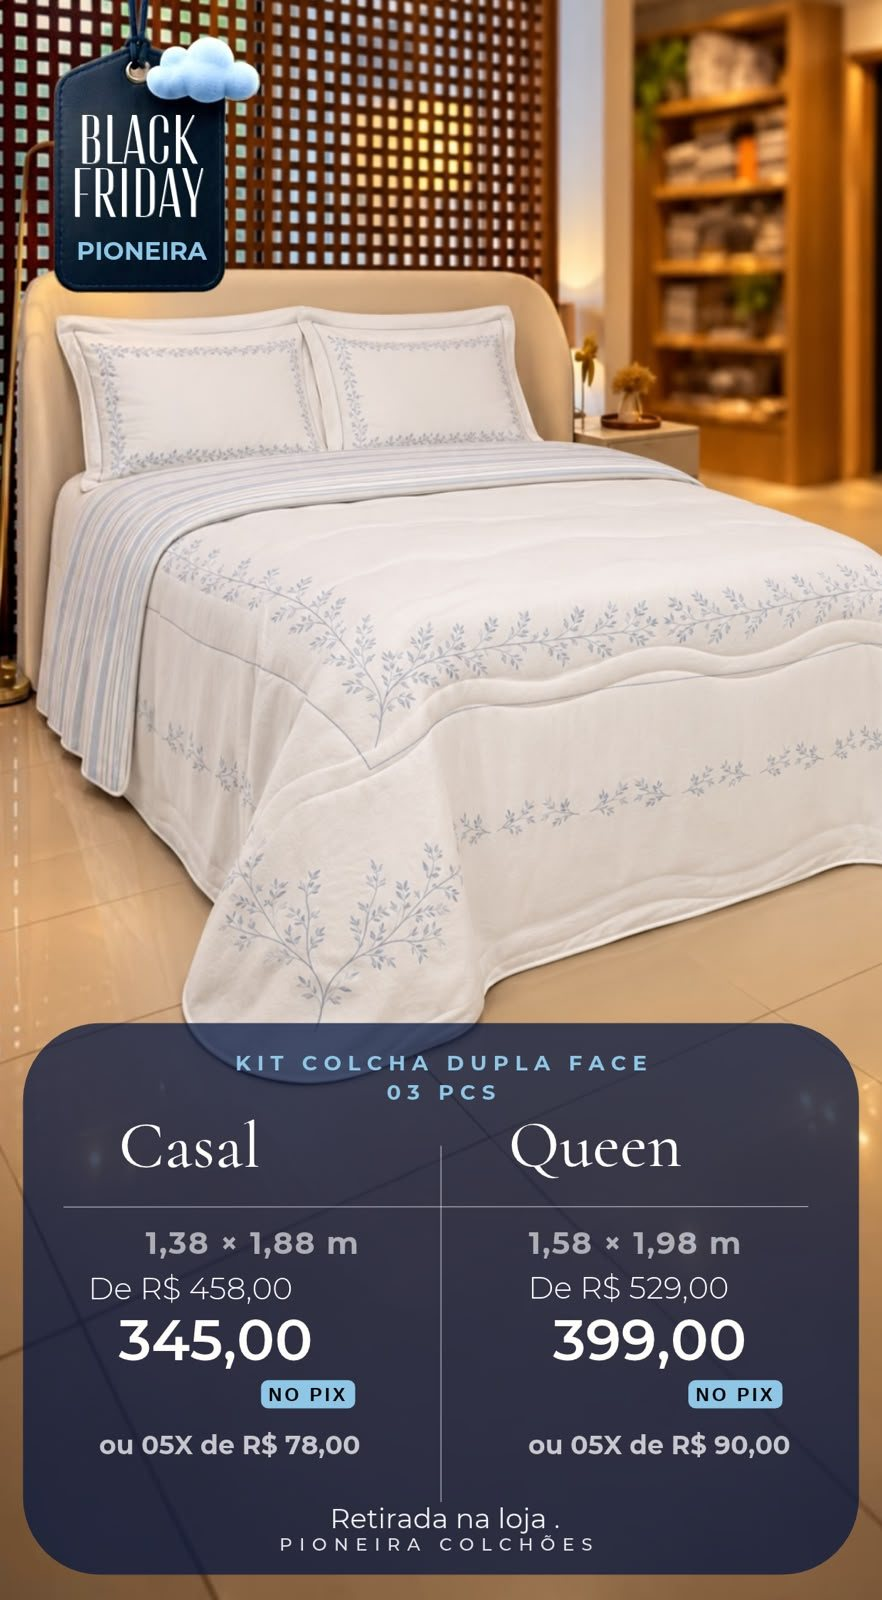
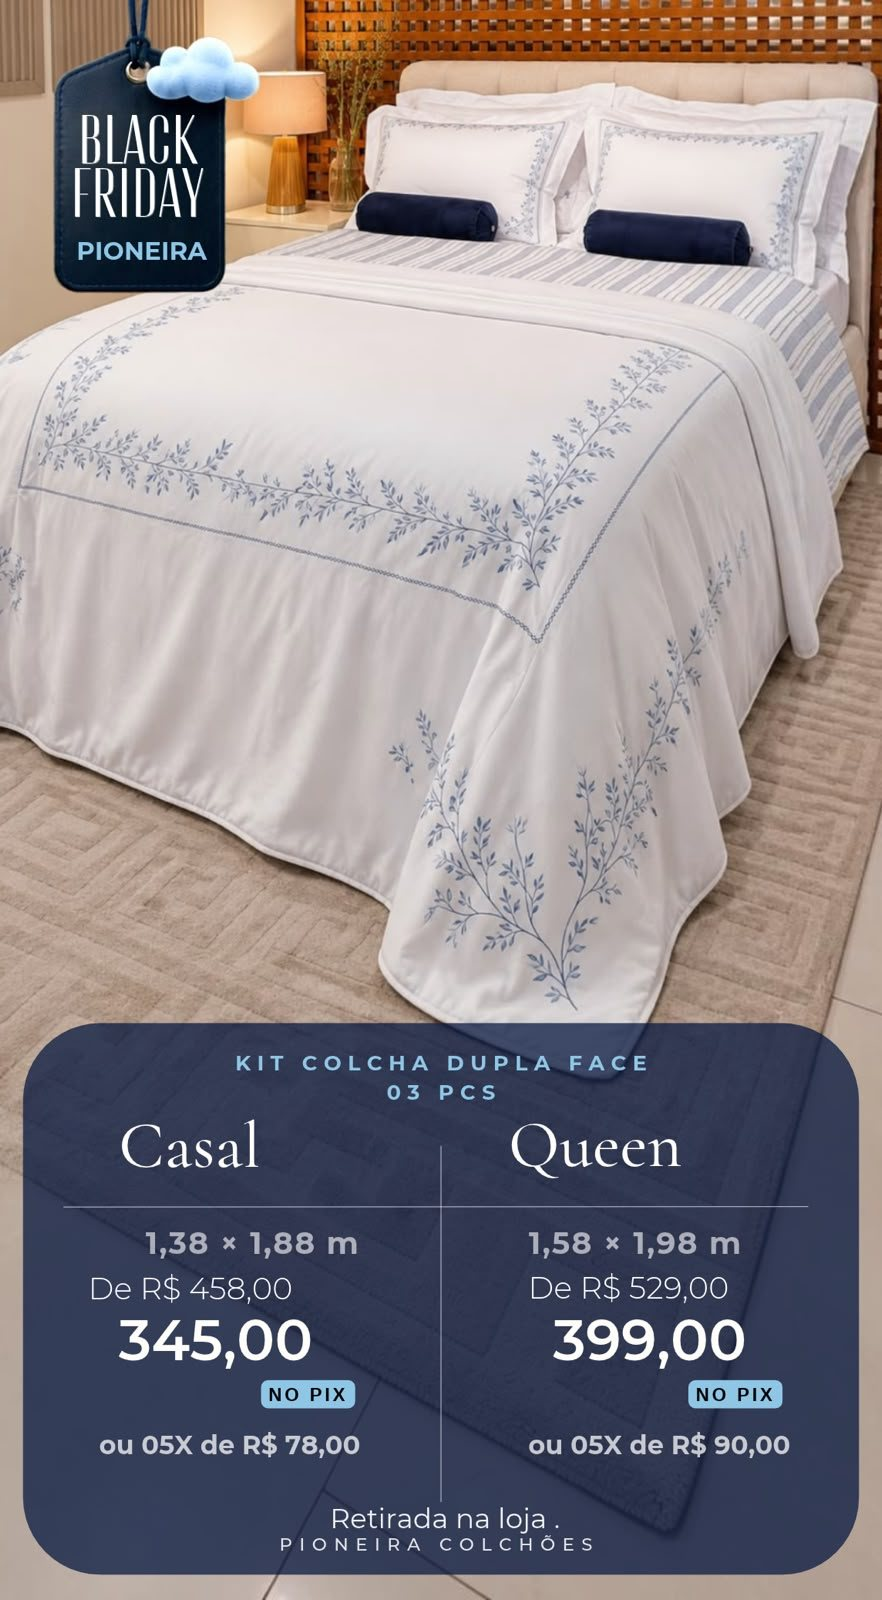
Nova Cabeceira La Fiori (Solteiro ao King, R$ 389 a R$ 699) na vitrine Camas; kit colcha Casal/Queen com a foto nova
Claude-Session: https://claude.ai/code/session_01Wenqvw9cMbUz8i68jYt1Pp

diff --git a/products.js b/products.js
@@ -33,7 +33,7 @@ window.STORE = {
 window.VITRINE = [
   {key:"v-box",name:"Box Baú",cats:["box-bau","colchao-bau"],cover:"box-queen.jpg",pos:"50% 30%"},
   {key:"colchao",name:"Colchões",cover:"kingkoil-queen.jpg",pos:"50% 40%"},
-  {key:"v-camas",name:"Camas",cats:["camas","tricama","cama-auxiliar"],cover:"bicama-solteiro.jpg",pos:"50% 40%"},
+  {key:"v-camas",name:"Camas",cats:["camas","tricama","cama-auxiliar","cabeceiras"],cover:"bicama-solteiro.jpg",pos:"50% 40%"},
   {key:"cama-posta",name:"Roupas de cama",cover:"coord-azul-solteiro.jpg",pos:"50% 40%"},
   {key:"mesas",name:"Mesas de cabeceira",cover:"mesa-mh5405.jpg",pos:"50% 45%"},
   {key:"travesseiros",name:"Travesseiros",cover:"travesseiro-pluma.jpg",pos:"50% 40%"}
@@ -49,6 +49,7 @@ window.CATEGORIES = [
   {group:"Black Friday",black:true,key:"cama-posta",name:"Roupas de cama",cover:"coord-azul-solteiro.jpg",pos:"50% 35%"},
   {group:"Black Friday",black:true,key:"cama-auxiliar",name:"Cama auxiliar",cover:"video-cama-auxiliar.jpg",pos:"50% 30%"},
   {group:"Black Friday",black:true,key:"travesseiros",name:"Travesseiros",cover:"travesseiro-pluma.jpg",pos:"50% 30%"},
+  {group:"Black Friday",black:true,key:"cabeceiras",name:"Cabeceiras",cover:"cabeceira-la-fiori.jpg",pos:"50% 30%"},
   {group:"Black Friday",black:true,key:"camas",name:"Bicama",cover:"bicama-casal.jpg",pos:"50% 30%"},
 
   {group:"Camas",key:"bicamas-loja",name:"Bicamas",cover:"bicamas-03.jpg",pos:"50% 50%"},
@@ -67,7 +68,6 @@ window.CATEGORIES = [
   {group:"Marcas",key:"herval",name:"Herval",cover:"herval-king.jpg",black:true},
   {group:"Marcas",key:"outras-marcas",name:"Outras marcas"},
 
-  {group:"Complementos",key:"cabeceiras",name:"Cabeceiras"},
   {group:"Complementos",key:"protetores",name:"Protetores"}
 ];
 window.PRODUCTS = [
@@ -145,6 +145,7 @@ window.PRODUCTS = [
   {cat:"camas",video:"video-bicama-molas.mp4",img:"video-bicama-molas.jpg",tags:["bicamas-loja"],leg:"Bicama de molas · veja de perto",preco:"R$ 1.299 (de R$ 1.699)",name:"Vídeo: Bicama de molas",wa:"Bicama de molas"},
   {cat:"camas",top:true,img:"bicama-casal.jpg",leg:"Bicama de Molas Casal",preco:"R$ 2.443 no Pix",name:"Colchão Molas Firme + Bicama de Molas Casal"},
   {cat:"camas",top:true,img:"cama-urban-queen.jpg",med:["queen"],leg:"Cama Urban Queen",preco:"R$ 1.997 no Pix",name:"Cama Urban Queen (1,58 × 1,98 m), não acompanha o colchão"},
+  {cat:"cabeceiras",top:true,img:"cabeceira-la-fiori.jpg",med:["solteiro","solteirao","casal","queen","king"],leg:"Cabeceira La Fiori · Solteiro ao King",preco:"Solteiro ao King · a partir de R$ 389",name:"Cabeceira La Fiori (Solteiro ao King)"},
   {cat:"box-bau",top:true,video:"video-box-bau-qualidade.mp4",img:"video-box-bau-qualidade.jpg",name:"Vídeo: Antes de comprar um box baú, veja isso",wa:"Box Baú"},
   {cat:"box-bau",top:true,img:"box-solteiro.jpg",leg:"Box Baú Solteiro",preco:"R$ 999",name:"Box Baú Solteiro (0,88 × 1,88 m)"},
   {cat:"box-bau",top:true,img:"box-solteirao.jpg",leg:"Box Baú Solteirão",preco:"R$ 1.100",name:"Box Baú Solteirão (1,08 × 1,98 m)"},

diff --git a/app.js b/app.js
@@ -37,7 +37,7 @@ const brand=`<a class="brand" href="#/" aria-label="Início">${LOGO()}</a>`;
 const fmt=t=>esc(t).replace(/\*\*(.+?)\*\*/g,"<b>$1</b>");
 const COND="Até 10x no cartão · Condições especiais no Pix";
 const HOME_VIDEOS=["video-black-resumo.mp4","video-black-esperar.mp4","video-box-bau-qualidade.mp4"];
-const PANEL=new Set(["travesseiro-visco-gel.jpg","herval-casal.jpg","colcha-dupla-face-casal-queen.jpg","cama-urban-queen.jpg","molas-bau-solteiro-solteirao.jpg", "molas-bau-casal-queen.jpg", "molas-bau-queen.jpg", "molas-bau-king.jpg", "inducol-casal-box.jpg", "inducol-casal.jpg", "inducol-hotelaria-solteiro.jpg", "hotelaria-solteiro.jpg", "kingkoil-solteiro.jpg", "simmons-casal.jpg", "sealy-queen.jpg", "sealy-joy.jpg", "sealy-royal-foam-queen.jpg", "sealy-miami.jpg", "probel-guarda-costas-king.jpg", "herval-king.jpg", "kingkoil-queen.jpg", "kingkoil-crystal-queen.jpg", "kingkoil-nanobionic-queen.jpg", "kingkoil-diamond-queen.jpg", "bicama-solteiro.jpg", "bicama-casal.jpg", "box-solteiro.jpg", "box-solteirao.jpg", "box-casal.jpg", "box-queen.jpg", "box-king.jpg", "coord-azul-solteiro.jpg", "coord-rose-solteiro.jpg", "coord3-azul-claro.jpg", "coord3-rosa-antigo.jpg", "travesseiro-pluma.jpg"]);
+const PANEL=new Set(["cabeceira-la-fiori.jpg","travesseiro-visco-gel.jpg","herval-casal.jpg","colcha-dupla-face-casal-queen.jpg","cama-urban-queen.jpg","molas-bau-solteiro-solteirao.jpg", "molas-bau-casal-queen.jpg", "molas-bau-queen.jpg", "molas-bau-king.jpg", "inducol-casal-box.jpg", "inducol-casal.jpg", "inducol-hotelaria-solteiro.jpg", "hotelaria-solteiro.jpg", "kingkoil-solteiro.jpg", "simmons-casal.jpg", "sealy-queen.jpg", "sealy-joy.jpg", "sealy-royal-foam-queen.jpg", "sealy-miami.jpg", "probel-guarda-costas-king.jpg", "herval-king.jpg", "kingkoil-queen.jpg", "kingkoil-crystal-queen.jpg", "kingkoil-nanobionic-queen.jpg", "kingkoil-diamond-queen.jpg", "bicama-solteiro.jpg", "bicama-casal.jpg", "box-solteiro.jpg", "box-solteirao.jpg", "box-casal.jpg", "box-queen.jpg", "box-king.jpg", "coord-azul-solteiro.jpg", "coord-rose-solteiro.jpg", "coord3-azul-claro.jpg", "coord3-rosa-antigo.jpg", "travesseiro-pluma.jpg"]);
 const imgFull=p=>p.url||`img/ofertas/${p.img}`;
 const imgThumb=p=>p.thumb||(p.url?p.url:`img/ofertas/t/${p.img}`);
 const catThumb=c=>c.coverUrl||(c.cover?`img/ofertas/t/${c.cover}`:"");

diff --git a/index.html b/index.html
@@ -13,7 +13,7 @@
 <meta name="twitter:card" content="summary_large_image"><meta name="twitter:title" content="Black Friday Pioneira"><meta name="twitter:image" content="https://apioneiracolchoes.pages.dev/img/card-oferta.jpg">
 <link rel="icon" href="icon.svg" type="image/svg+xml"><link rel="apple-touch-icon" href="icon-180.png"><link rel="manifest" href="manifest.webmanifest">
 <link rel="stylesheet" href="https://fonts.googleapis.com/css2?family=Cormorant+Garamond:ital,wght@0,500;0,600;1,500&family=Montserrat:wght@400;500;600&family=Comfortaa:wght@600;700&display=swap">
-<link rel="stylesheet" href="style.css?v=20261208"></head><body>
+<link rel="stylesheet" href="style.css?v=20261209"></head><body>
 <div id="splash"><span class="logo big"><svg class="cloud" viewBox="0 0 64 40" aria-hidden="true"><path fill="#6db3f0" d="M16 38a12 12 0 0 1-2-23.8A15 15 0 0 1 43 11a13 13 0 0 1 6 27z"/></svg><b>apioneira</b><small>COLCHÕES</small></span></div>
 <div id="app"></div>
-<script>window.BUILD="20261208"</script><script src="config.js?v=20261208"></script><script src="products.js?v=20261208"></script><script src="app.js?v=20261208"></script></body></html>
+<script>window.BUILD="20261209"</script><script src="config.js?v=20261209"></script><script src="products.js?v=20261209"></script><script src="app.js?v=20261209"></script></body></html>
